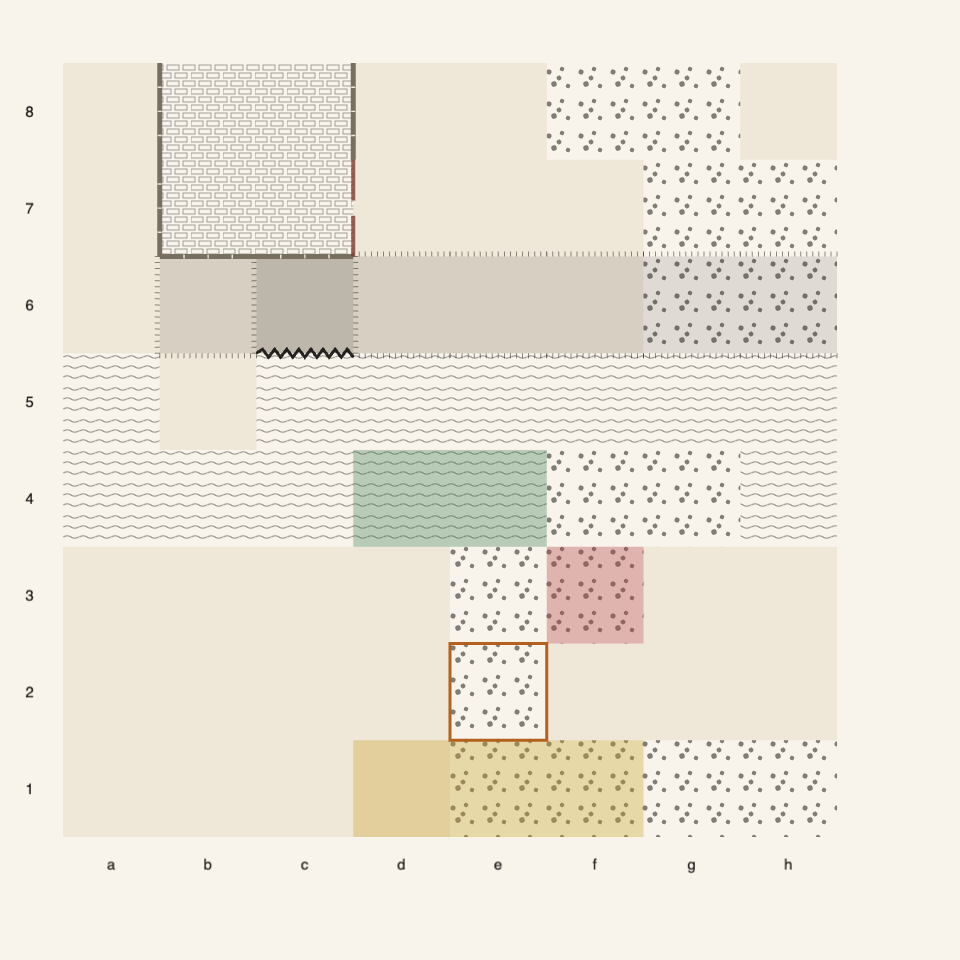
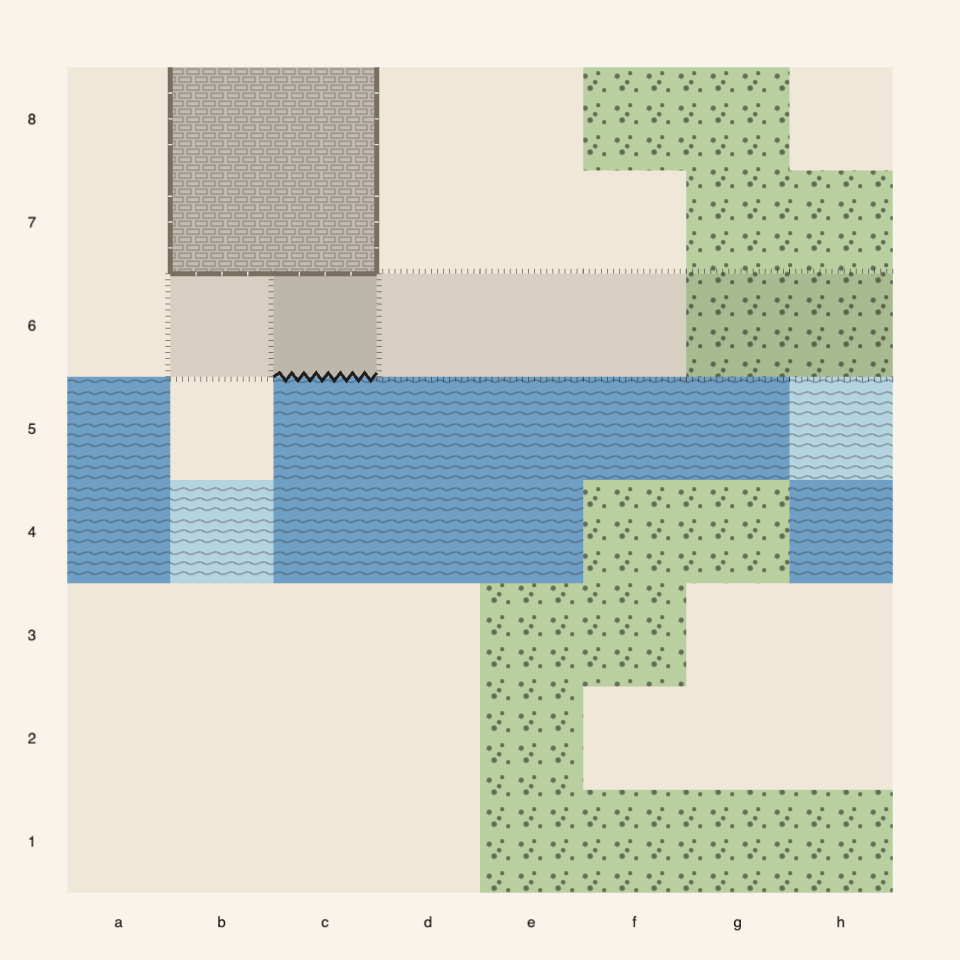
Mask terrain textures with a second Graphics so fills render
PIXI's mask setter sets renderable=false on the object it is given, so the
flat fill doubling as its own texture mask left every textured terrain
drawing as bare background. Re-shot wave2-terrain.png.

Claude-Session: https://claude.ai/code/session_01LiPc3GYQMciG6ZueF8DnsZ

diff --git a/src/board/layers/TerrainLayer.ts b/src/board/layers/TerrainLayer.ts
@@ -33,8 +33,9 @@ function drawHatch(g: PIXI.Graphics, a: Point, b: Point, lowerCenter: Point, ink
  * Cell fills, procedural texture overlays, elevation tint and slope hatching. One
  * `PIXI.Graphics` per terrain type present on the board, grouped the way Reignmaker's
  * `renderTerrainOverlay` groups hexes by type before drawing (services/map/renderers/
- * TerrainRenderer.ts) — cheaper than one Graphics per cell, and the texture overlay for a
- * type reuses that same fill Graphics as its mask instead of tracking per-cell clip paths.
+ * TerrainRenderer.ts) — cheaper than one Graphics per cell. A textured type gets a second
+ * Graphics of the same shape to mask its overlay, since PIXI stops rendering whatever it is
+ * handed as a mask.
  */
 export class TerrainLayer {
   private readonly container: PIXI.Container;
@@ -55,12 +56,17 @@ export class TerrainLayer {
       if (list) list.push(sq); else byTerrain.set(terrain, [sq]);
     }
 
+    const shapeOf = (squares: Square[], colour: number): PIXI.Graphics => {
+      const g = new PIXI.Graphics();
+      g.beginFill(colour, 1);
+      for (const sq of squares) g.drawPolygon(grid.vertices(sq, size));
+      g.endFill();
+      return g;
+    };
+
     for (const [terrain, squares] of byTerrain) {
-      const fill = new PIXI.Graphics();
+      const fill = shapeOf(squares, theme.terrain[terrain]);
       fill.name = `Terrain_${terrain}`;
-      fill.beginFill(theme.terrain[terrain], 1);
-      for (const sq of squares) fill.drawPolygon(grid.vertices(sq, size));
-      fill.endFill();
       this.container.addChild(fill);
 
       const texture = this.textureFor(app, terrain, theme);
@@ -68,10 +74,12 @@ export class TerrainLayer {
         const bounds = grid.bounds(size);
         const tiling = new PIXI.TilingSprite(texture, bounds.width, bounds.height);
         tiling.name = `Terrain_${terrain}_texture`;
-        // Reuses `fill`'s shape as the mask: it is already exactly the union of this
-        // terrain's cells, rendered normally *and* referenced here — PIXI masks don't
-        // require the mask object to be exclusively a mask.
-        tiling.mask = fill;
+        // A second Graphics of the same shape: PIXI's mask setter sets renderable=false on
+        // whatever it is given, so masking with `fill` itself would erase the terrain colour.
+        const clip = shapeOf(squares, 0xffffff);
+        clip.name = `Terrain_${terrain}_clip`;
+        this.container.addChild(clip);
+        tiling.mask = clip;
         this.container.addChild(tiling);
       }
     }

diff --git a/docs/plans/pixi-board.todos.md b/docs/plans/pixi-board.todos.md
@@ -156,12 +156,13 @@ Judgment calls taken inside the wave:
   `generateTexture`, then tiled with a `TilingSprite` regardless of the board's current cell
   size — matches the plan's "cached per type" literally and means a window resize never
   regenerates a texture, only rescales how many tiles show per cell.
-- The texture overlay for a terrain type reuses that type's own flat-fill `Graphics` as the
-  `TilingSprite`'s mask, instead of a second per-cell clip path — a `DisplayObject` can be both
-  a normally-rendered child and another object's mask at once (confirmed against PixiJS v7's
-  own docs: "a mask of an object must be in the subtree of its parent", which a sibling
-  satisfies). `TerrainLayer.clear()` nulls every child's `.mask` before destroying, since
-  destroy order would otherwise leave a `TilingSprite` pointing at an already-destroyed fill.
+- The texture overlay for a terrain type is masked by a *second* `Graphics` of the same shape,
+  not by the type's own flat fill. Reusing the fill was tried first and rendered every textured
+  terrain colourless: PIXI v7's `mask` setter sets `renderable = false` on whatever it is handed
+  (`@pixi/display/lib/DisplayObject.mjs:352`), so a fill used as a mask stops drawing. A
+  `DisplayObject` cannot be both a visible child and a mask. `TerrainLayer.clear()` nulls every
+  child's `.mask` before destroying, since destroy order would otherwise leave a `TilingSprite`
+  pointing at an already-destroyed clip.
 - Elevation slope hatching (`TerrainLayer`) only draws for a single-level drop (`diff === 1`);
   a 2+ drop renders as a cliff instead (`EdgeLayer`), and an edge already carrying a wall bar
   skips hatching entirely so the two treatments never stack on the same edge.
